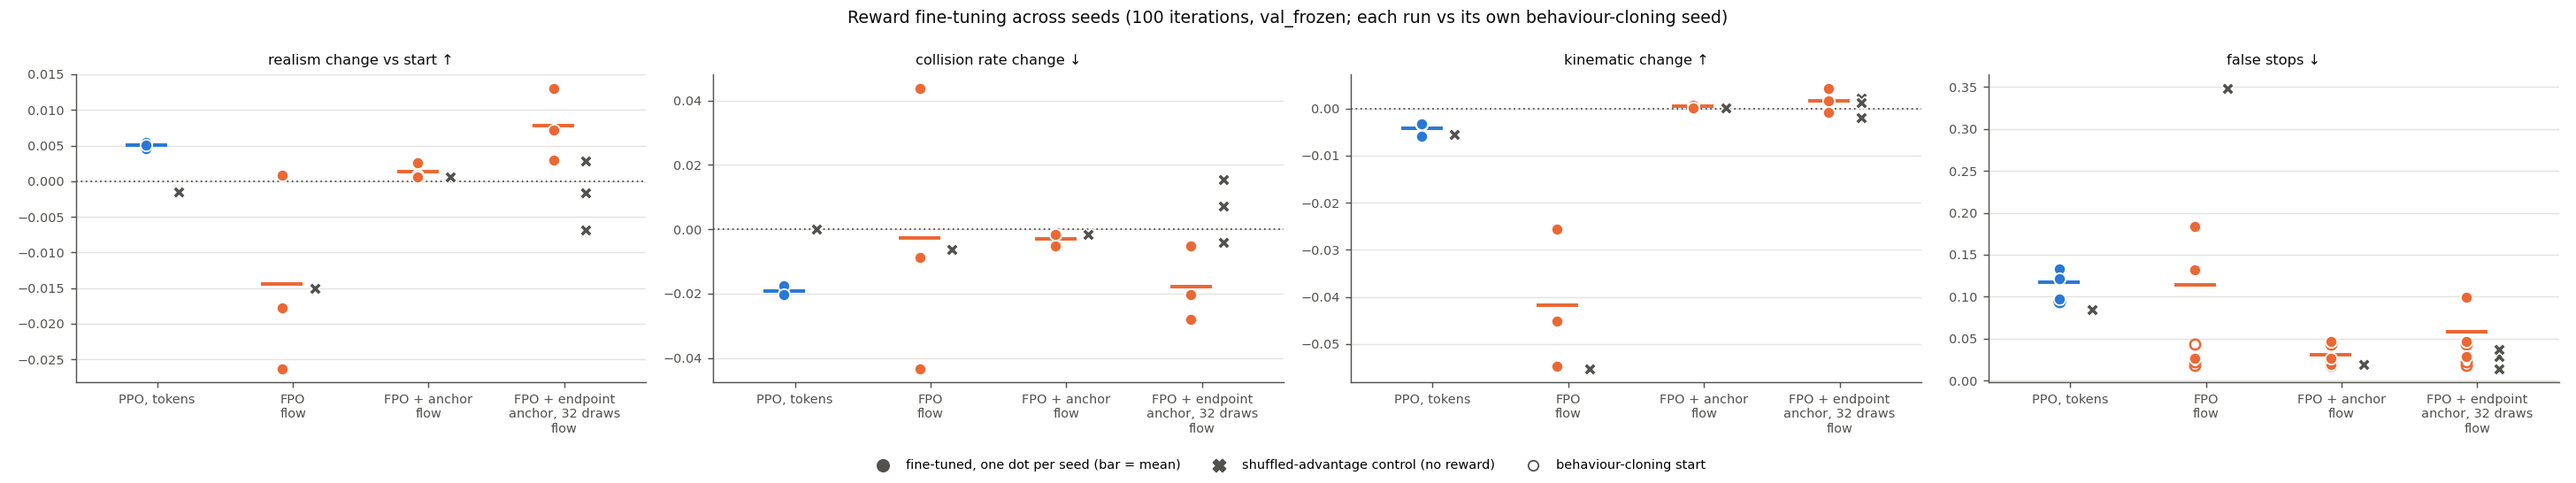
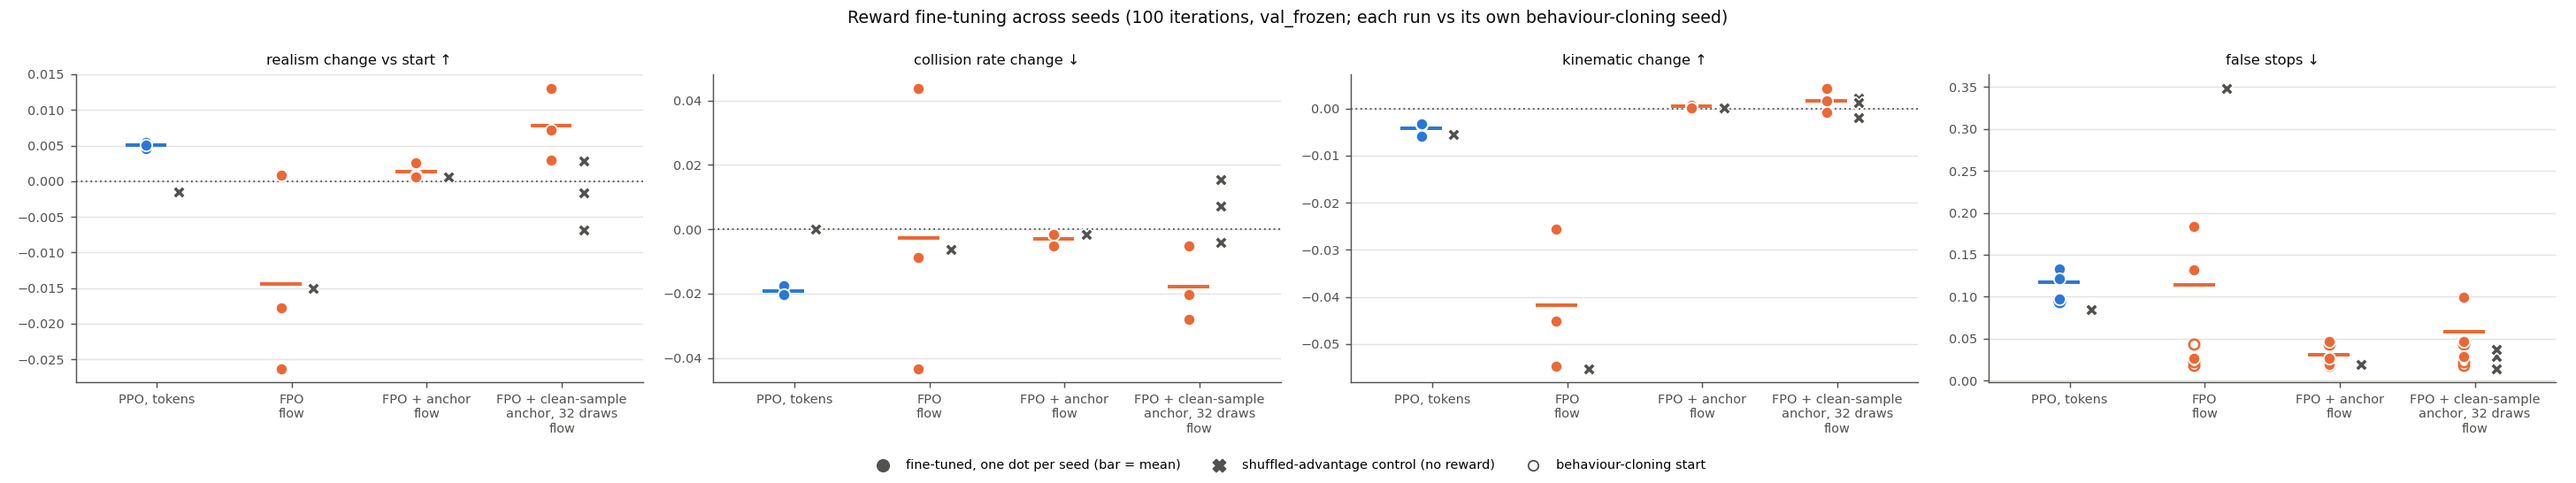
figures: use clean-sample anchor name

diff --git a/src/tokens_vs_flows/figures.py b/src/tokens_vs_flows/figures.py
@@ -804,7 +804,7 @@ def main():
                    pairs("fpo_shuffled_flow_noise", "bc_flow_noise"), "flow"),
                   ("FPO + anchor\nflow", pairs("fpo_anchored_flow_noise", "bc_flow_noise"),
                    pairs("fpo_anchored_shuffled_flow_noise", "bc_flow_noise"), "flow"),
-                  ("FPO + endpoint\nanchor, 32 draws\nflow", pairs("fpo_anchorx1_nmc32_flow_noise", "bc_flow_noise"),
+                  ("FPO + clean-sample\nanchor, 32 draws\nflow", pairs("fpo_anchorx1_nmc32_flow_noise", "bc_flow_noise"),
                    pairs("fpo_anchorx1_nmc32_shuffled_flow_noise", "bc_flow_noise"), "flow")]
     if any(len(a[1]) > 1 for a in seed_arms[1:]):
         rl_seeds(seed_arms, figs / "rl_seeds.png",
